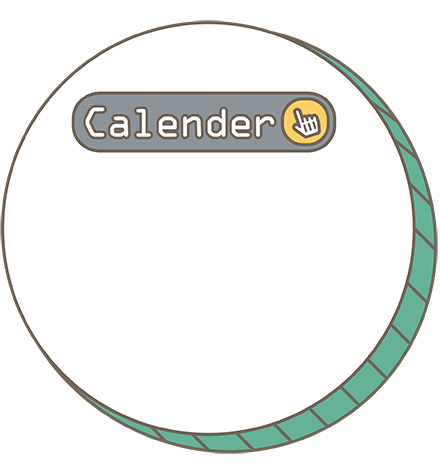
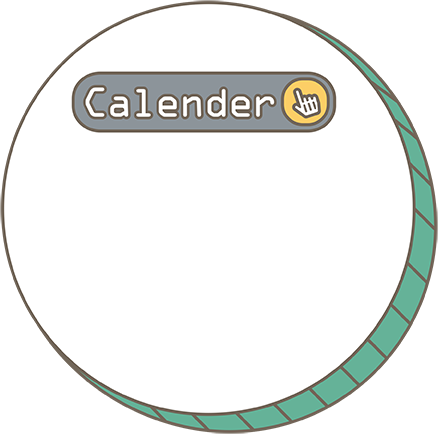
作業修改與建議事項

Changed region(s): [[0.0, 0.0, 1.0, 1.0], [0.0, 0.5691, 0.0297, 0.629]]

diff --git a/index.html b/index.html
@@ -1,0 +1,54 @@
+<!DOCTYPE html>
+<html lang="en">
+<head>
+  <meta charset="UTF-8">
+  <meta name="viewport" content="width=device-width, initial-scale=1.0">
+  <meta http-equiv="X-UA-Compatible" content="ie=edge">
+  <title>萬年曆作業</title>
+  <style>
+  *{
+    margin:0;
+    padding:0;
+    box-sizing:border-box;
+    list-style-type:none;
+  }
+  body{
+    width:100vw;
+    height:100vh;
+    display:flex;
+    align-items:center;
+    justify-content:center;
+  }
+  ul{
+    width:500px;
+    margin:auto;
+    display:flex;
+    flex-wrap:wrap;
+    
+  }
+  li a{
+    text-decoration:none;
+    display:block;
+  }
+  li{
+    padding:15px 30px;
+    font-size:30px;
+    text-align:center;
+    border:1px solid #999;
+    box-shadow:0 0 5px #ccc;
+    font-family:"微軟正黑體","Arial";
+    border-radius:30px;
+    margin:0 20px;
+  }
+  li:hover{
+    background:skyblue;
+  }
+  </style>
+</head>
+<body>
+  <ul>
+    <li><a href="./perpetual01/">萬年曆一</a></li>
+    <li><a href="./perpetual02/">萬年曆二</a></li>
+  </ul>
+</body>
+</html>

diff --git a/perpetual01/index.php b/perpetual01/index.php
@@ -7,9 +7,19 @@
     <title>perpetual</title>
     <link href="https://fonts.googleapis.com/css?family=Nunito&display=swap" rel="stylesheet">
     <style>
+    *{
+      margin:0; /*消除所有標籤的內距和外邊距 */
+      padding:0;
+      box-sizing:border-box; /*調整所有的標籤的大小不受padding設置影響 */
+    }
     body{
         font-family: 'Nunito', sans-serif;
         background: linear-gradient(to right, #2c3e50, #3498db);
+        height:100vh;  /*設定BODY本身寬高都為滿版*/
+        width:100vw;
+        display:flex;  /*使用flex排版並設定元素置中 */
+        align-items:center;
+        justify-content:center;
     }
     table{
         border-collapse: collapse;
@@ -20,14 +30,14 @@
         text-align: center;
     }
     #main{
-        width: 950px;
+        min-width: 950px;  /*使用min-width可以確保main的寬度不會因為瀏灠器變化而變小*/
         height: 600px;
         background: white;
         border-radius: 1%;
-        margin: auto;
-        margin-top: 100px;
+        /* margin: auto; */
+        /* margin-top: 100px; */
         position:relative;
-        margin-top: 100px;
+        /* margin-top: 100px; */
         position:relative;
         filter: drop-shadow(2px 2px 20px black);
     }
@@ -62,6 +72,14 @@
         height: 12%;
         font-size: 30px;
         color: rgb(75,75,75);
+        display:flex;
+        justify-content:space-between; /*讓元素間自動分配空白*/
+        padding:0 25%; /*利用padding來控制TOP裏的空間*/
+        align-items:center; /*元素垂直置中*/
+        box-sizing:border-box;  /*讓元素的大小不受padding設定的影響*/
+    }
+    #top a{
+      display:flex;  /*讓top裏的 a 標籤自動調整高度到和圖片一樣30x30 */
     }
     #bottom{
         width: 100%;
@@ -147,11 +165,11 @@ $sd=[
             <?php
             if($month-1>0){
             ?>
-                <a href="perpetual01.php?year=<?=$year;?>&month=<?=($month-1);?>"><img src="arrow01.png" width=30px height=30px></a>
+                <a href="?year=<?=$year;?>&month=<?=($month-1);?>"><img src="arrow01.png" width=30px height=30px></a>
             <?php
             }else{
             ?>
-                <a href="perpetual01.php?year=<?=($year-1);?>&month=<?=12;?>"><img src="arrow01.png" width=30px height=30px></a>
+                <a href="?year=<?=($year-1);?>&month=<?=12;?>"><img src="arrow01.png" width=30px height=30px></a>
             <?php
             }
             ?>
@@ -161,11 +179,11 @@ $sd=[
             <?php
             if($month+1<13){
             ?>
-                <a href="perpetual01.php?year=<?=$year;?>&month=<?=($month+1);?>"><img src="arrow02.png" width=30px height=30px></a>
+                <a href="?year=<?=$year;?>&month=<?=($month+1);?>"><img src="arrow02.png" width=30px height=30px></a>
             <?php
             }else{
             ?>
-                <a href="perpetual01.php?year=<?=($year+1);?>&month=<?=1;?>"><img src="arrow02.png" width=30px height=30px></a>
+                <a href="?year=<?=($year+1);?>&month=<?=1;?>"><img src="arrow02.png" width=30px height=30px></a>
             <?php
             }
             ?>

diff --git a/perpetual02/index.php b/perpetual02/index.php
@@ -16,8 +16,13 @@
         background: #f8f2d9;
         background-image:url(background.png);
         background-repeat: no-repeat;
-        background-attachment: fixed;
+        background-attachment:fixed;
         font-size: 30px;
+        display: flex;
+        justify-content: center;
+        align-items: center;
+        height: 100vh;
+        width: 100vw;
     }
     table{
         border-collapse: collapse;
@@ -30,16 +35,16 @@
     #main{
         width: 1200px;
         height: 850px;
-        position: fixed;
-        top: 140px;
-        left: 500px;
+        position: relative;
+        /* top: 140px; */
+        /* left: 500px; */
     }
     #left{
         width: 1060px;
         height: 780px;
         background-image:url(bg-calender.png);
         position: absolute;
-        top: 0px;
+        top: 100px;
         left: 0px;
         padding-top:50px;
         padding-left:30px;
@@ -47,11 +52,11 @@
         filter: drop-shadow(5px 5px 5px gray);
     }
     #right{
-        width:440px;
-        height:480px;
+        width:438px;
+        height:434px;
         background-image:url(bg-bar.png);
         position:absolute;
-        top: -150px;
+        /* top: -150px; */
         right: 0px;
         color: #5F4B3A;
         padding-top: 160px;
@@ -138,11 +143,11 @@ $sd=[
             <?php
             if($month-1>0){
             ?>
-                <a href="perpetual02.php?year=<?=$year;?>&month=<?=($month-1);?>"><img src="garrow.png" width=30px height=30px></a>
+                <a href="?year=<?=$year;?>&month=<?=($month-1);?>"><img src="garrow.png" width=30px height=30px></a>
             <?php
             }else{
             ?>
-                <a href="perpetual02.php?year=<?=($year-1);?>&month=<?=12;?>"><img src="garrow.png" width=30px height=30px></a>
+                <a href="?year=<?=($year-1);?>&month=<?=12;?>"><img src="garrow.png" width=30px height=30px></a>
             <?php
             }
             ?>
@@ -152,11 +157,11 @@ $sd=[
             <?php
             if($month+1<13){
             ?>
-                <a href="perpetual02.php?year=<?=$year;?>&month=<?=($month+1);?>"><img src="garrow2.png" width=30px height=30px></a>
+                <a href="?year=<?=$year;?>&month=<?=($month+1);?>"><img src="garrow2.png" width=30px height=30px></a>
             <?php
             }else{
             ?>
-                <a href="perpetual02.php?year=<?=($year+1);?>&month=<?=1;?>"><img src="garrow2.png" width=30px height=30px></a>
+                <a href="?year=<?=($year+1);?>&month=<?=1;?>"><img src="garrow2.png" width=30px height=30px></a>
             <?php
             }
             ?>

diff --git a/recommend.md b/recommend.md
@@ -1,0 +1,25 @@
+# 建議事項
+## perpetual01
+1. 目錄下的主要檔案或第一個要執行的檔案儘量以index.php或index.html來命名
+2. 儘量使用相對路徑來取代絕對路徑
+```
+  <a href="perpetual01.php?year=......
+    改成
+  <a href="?year=.....
+```
+3. `#top`區的圖片和文字無法完美垂直置中，做法請參考CSS修改的內容
+4. 使用flex排版方式來說月曆維持在畫面的絕對中央，並且不受瀏灠器大小影響，做法請參考CSS修改的內容
+
+## perpetual02
+1. 目錄下的主要檔案或第一個要執行的檔案儘量以index.php或index.html來命名
+2. 儘量使用相對路徑來取代絕對路徑
+```
+  <a href="perpetual02.php?year=......
+    改成
+  <a href="?year=.....
+```
+3. 修改`bg-bar.png`，裁切上下的空白空間，讓右上角的圖片可以頂到#main的最頂部
+4. 使用flex排版來讓#main位於版面正中央，並可隨瀏灠器變化自動調整位置，做法請參考CSS修改的內容
+
+## 其它
+1. 建議在外層目錄做一個index.html檔，提供連結來快速查看兩份作品
